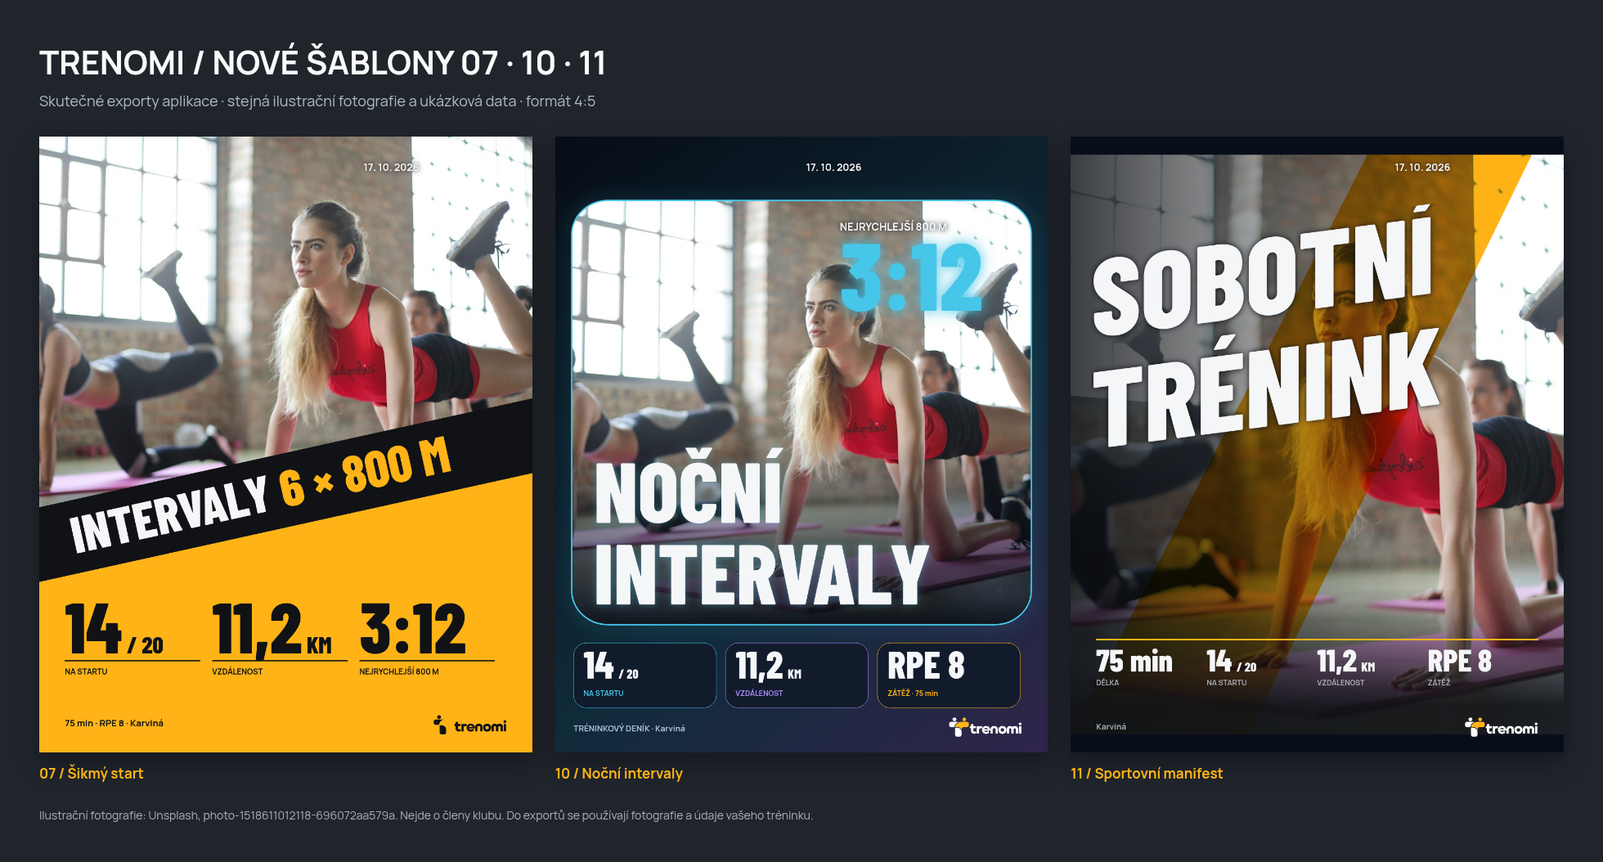
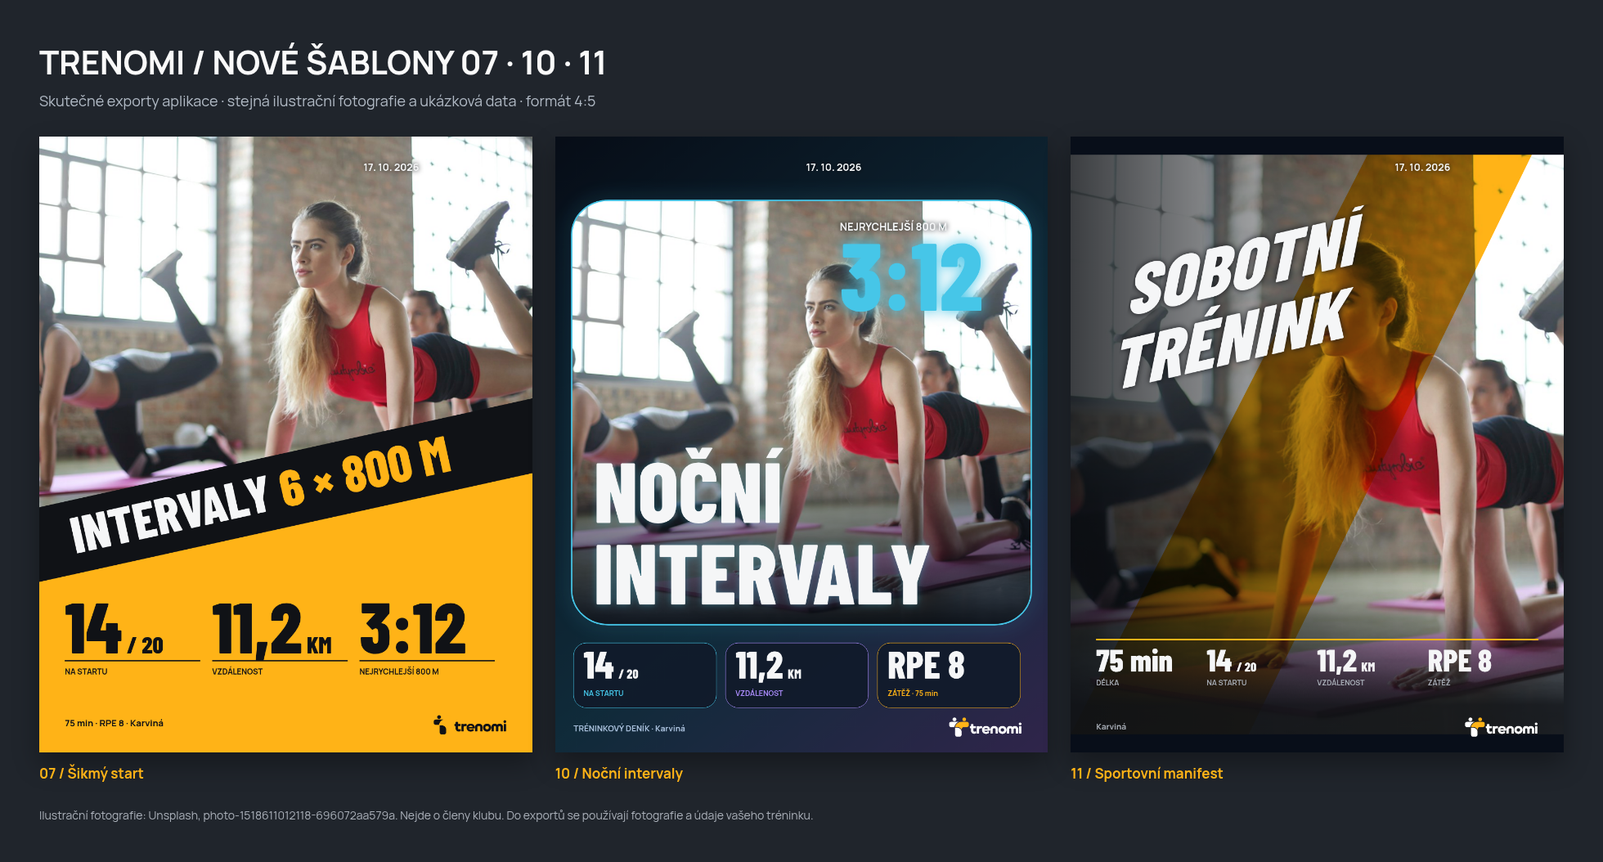
Reduce and skew template 11 typography, number all templates and add club mark styling

Changed region(s): [[0.6847, 0.2429, 0.9026, 0.5161]]

diff --git a/src/JournalSharePanel.tsx b/src/JournalSharePanel.tsx
@@ -28,7 +28,7 @@ export function JournalSharePanel({team,eventName,photo,clubLogo,date,place,metr
  useEffect(()=>{setCaption(value=>value===previousCaption.current?defaultCaption:value);previousCaption.current=defaultCaption},[defaultCaption]);
  useEffect(()=>{setCrop({x:.5,y:.5,zoom:1})},[photo]);
  const graphic:ShareGraphic={showClubIdentity:false,team,title:showTitle?title:'',photo,photoFit,clubLogo,date:showDate?date:undefined,place:showPlace?place:undefined,crop,format,template,accent,stickers,metrics:metrics.filter(m=>!hiddenMetrics.includes(m.label)).map(m=>m.label==='přítomných'&&attendance?{...m,value:`${attendance.present} / ${attendance.total}`}:m),best:best.map((b,i)=>({...b,name:names?b.name:`Výkon ${i+1}`}))};
- const allTemplates=[...editorTemplates,...shareTemplates],selectedTemplateIndex=shareTemplates.findIndex(t=>t.id===template),key=JSON.stringify(graphic);
+ const allTemplates=[...shareTemplates,...editorTemplates],selectedTemplateIndex=[...shareTemplates,...editorTemplates].findIndex(t=>t.id===template),key=JSON.stringify(graphic);
  const stickerData={title,date,metrics,attendance},activeSticker=stickers.find(s=>s.id===selected);
  const [readyKey,setReadyKey]=useState('');const incompleteSticker=stickers.some(s=>s.value==='DOPLŇTE'||!s.value.trim());const canExport=ready&&readyKey===key&&!incompleteSticker;
  useEffect(()=>{let alive=true;setReady(false);setError('');rendered.current=null;void renderShareGraphic(graphic).then(canvas=>{if(!alive||!preview.current)return;preview.current.width=canvas.width;preview.current.height=canvas.height;preview.current.getContext('2d')?.drawImage(canvas,0,0);rendered.current=canvas;setReadyKey(key);setReady(true)}).catch(()=>{if(alive)setError('Náhled grafiky nelze připravit. Ověřte připojení nebo zvolte jinou fotografii.')});return()=>{alive=false}},[key]);
@@ -67,7 +67,7 @@ export function JournalSharePanel({team,eventName,photo,clubLogo,date,place,metr
  </section><section className="share-editor-tools" aria-label="Nástroje editoru"><div className="share-editor-tabs" role="tablist" aria-label="Editor obrázku">{([['templates','Šablony'],['data','Data'],['stickers','Samolepky']] as const).map(([id,label])=><button key={id} role="tab" id={'share-tab-'+id} aria-selected={tab===id} aria-controls={'share-panel-'+id} onClick={()=>setTab(id)} onKeyDown={e=>{const ids=['templates','data','stickers'] as const,index=ids.indexOf(id);const next=e.key==='ArrowRight'?(index+1)%3:e.key==='ArrowLeft'?(index+2)%3:e.key==='Home'?0:e.key==='End'?2:-1;if(next>=0){e.preventDefault();setTab(ids[next]);e.currentTarget.parentElement?.querySelectorAll('button')[next]?.focus()}}}>{label}</button>)}</div>
  <div role="tabpanel" id="share-panel-templates" aria-labelledby="share-tab-templates" hidden={tab!=='templates'}>
 
- <details className="share-template-picker" open={pickerOpen} onToggle={e=>setPickerOpen(e.currentTarget.open)}><summary aria-label="Vybrat šablonu grafiky">{selectedTemplateIndex>=0&&<b className="share-template-number">{String(selectedTemplateIndex+1).padStart(2,'0')}</b>} <span>{allTemplates.find(t=>t.id===template)?.name}</span><small>Vybrat vzhled · {allTemplates.length}</small></summary>{pickerOpen&&<div className="share-template-cards" role="group" aria-label="Šablona grafiky">{allTemplates.map(t=><button key={t.id} aria-label={t.name} aria-pressed={template===t.id} onClick={()=>{chooseTemplate(t.id);setPickerOpen(false)}}><TemplatePreview graphic={{...graphic,format:'4:5',crop:{x:.5,y:.5,zoom:1},template:t.id}}/>{shareTemplates.some(v=>v.id===t.id)&&<b className="share-template-number">{String(shareTemplates.findIndex(v=>v.id===t.id)+1).padStart(2,'0')}</b>}<span>{t.name}</span></button>)}</div>}</details>
+ <details className="share-template-picker" open={pickerOpen} onToggle={e=>setPickerOpen(e.currentTarget.open)}><summary aria-label="Vybrat šablonu grafiky">{selectedTemplateIndex>=0&&<b className="share-template-number">{String(selectedTemplateIndex+1).padStart(2,'0')}</b>} <span>{allTemplates.find(t=>t.id===template)?.name}</span><small>Vybrat vzhled · {allTemplates.length}</small></summary>{pickerOpen&&<div className="share-template-cards" role="group" aria-label="Šablona grafiky">{allTemplates.map((t,i)=><button key={t.id} aria-label={t.name} aria-pressed={template===t.id} onClick={()=>{chooseTemplate(t.id);setPickerOpen(false)}}><TemplatePreview graphic={{...graphic,format:'4:5',crop:{x:.5,y:.5,zoom:1},template:t.id}}/><b className="share-template-number">{String(i+1).padStart(2,'0')}</b><span>{t.name}</span></button>)}</div>}</details>
  <fieldset className="share-accent-picker"><legend>Barva grafiky</legend>{shareAccents.map(a=><button key={a.value} aria-label={a.name} aria-pressed={accent===a.value} style={{background:a.value}} onClick={()=>{accentChosen.current=true;setAccent(a.value)}}/>)}</fieldset><p className="muted">Barva platí pro tento obrázek. Klubové nastavení se nemění.</p>
  </div><div role="tabpanel" id="share-panel-data" aria-labelledby="share-tab-data" hidden={tab!=='data'}>
  {usesSharePhoto(template)&&(photo?<fieldset className="share-crop"><legend>Výřez fotografie</legend><label>Zobrazení<select aria-label="Zobrazení fotografie" value={photoFit} onChange={e=>setPhotoFit(e.target.value as 'contain'|'cover')}><option value="contain">Celá fotografie</option><option value="cover">Vyplnit rámeček</option></select></label><p className="share-touch-help" id="share-touch-help">Fotografii posuňte prstem, dvěma prsty ji přibližte nebo oddalte.</p><details className="share-precise-controls" open={preciseOpen} onToggle={e=>setPreciseOpen(e.currentTarget.open)}><summary>Přesné nastavení výřezu</summary>{([['Přiblížení fotografie','zoom',1,3,.05],['Vodorovný posun fotografie','x',0,1,.01],['Svislý posun fotografie','y',0,1,.01]] as const).map(([label,field,min,max,step])=><label key={field}>{label}<input aria-label={label} type="range" min={min} max={max} step={step} value={crop[field]} onChange={e=>setCrop(c=>({...c,[field]:Number(e.target.value)}))}/></label>)}</details><button className="text-button" onClick={()=>setCrop({x:.5,y:.5,zoom:1})}>Obnovit výřez</button><small>Původní fotka se nemění. Další vyberete v galerii tréninku.</small></fieldset>:<p className="muted">Přidejte nebo vyberte fotografii v galerii tréninku. Zatím se použije grafické pozadí.</p>)}
@@ -75,7 +75,7 @@ export function JournalSharePanel({team,eventName,photo,clubLogo,date,place,metr
  </div><div role="tabpanel" id="share-panel-stickers" aria-labelledby="share-tab-stickers" hidden={tab!=='stickers'}>
  <button className="share-add-club" disabled={stickers.length>=16||stickers.some(s=>s.kind==='club')} onClick={()=>addSticker({...newShareSticker('ticket',stickerData),kind:'club',text:'',value:team})}>Vložit logo a název klubu</button><p className="muted">{clubLogo?'Logo se použije v původních proporcích a název v původním znění.':'Klub nemá nastavené logo; vloží se jeho název.'}</p>
  <p className="muted">Klepnutím přidejte samolepku. Na náhledu ji posuňte, za roh zvětšete a otočte, nebo použijte dva prsty.</p>
- {activeSticker&&<fieldset className="share-sticker-properties"><legend>{stickerName(activeSticker.kind)}</legend>{activeSticker.kind!=='club'&&<><label>Hlavní text<input aria-label="Text samolepky" maxLength={80} value={activeSticker.value} onChange={e=>changeSticker({...activeSticker,value:e.target.value})}/></label><label>Doplňující text<input aria-label="Popisek samolepky" maxLength={60} value={activeSticker.text} onChange={e=>changeSticker({...activeSticker,text:e.target.value})}/></label></>}<label>Velikost<input aria-label="Velikost samolepky" type="range" min=".35" max="2.4" step=".01" value={activeSticker.scale} onChange={e=>changeSticker({...activeSticker,scale:Number(e.target.value)})}/></label><label>Otočení · {Math.round(activeSticker.rotation)}°<input aria-label="Otočení samolepky" type="range" min="-180" max="180" step="1" value={activeSticker.rotation} onChange={e=>changeSticker({...activeSticker,rotation:Number(e.target.value)})}/></label><div><button onClick={()=>setStickers(items=>[...items.filter(s=>s.id!==selected),activeSticker])}>Do popředí</button><button onClick={()=>setStickers(items=>[activeSticker,...items.filter(s=>s.id!==selected)])}>Do pozadí</button><button disabled={stickers.length>=16} onClick={()=>addSticker({...activeSticker,id:crypto.randomUUID(),x:.5,y:.5})}><Copy size={14}/> Duplikovat</button><button className="danger-text" onClick={()=>removeSticker(selected)}><Trash2 size={14}/> Odstranit samolepku</button></div></fieldset>}
+ {activeSticker&&<fieldset className="share-sticker-properties"><legend>{stickerName(activeSticker.kind)}</legend>{activeSticker.kind==='club'&&<div className="share-club-appearance"><label className="share-names"><input type="checkbox" checked={!!activeSticker.clubBorder} onChange={e=>changeSticker({...activeSticker,clubBorder:e.target.checked})}/> Ohraničení loga</label>{activeSticker.clubBorder&&<label>Barva ohraničení<input type="color" aria-label="Barva ohraničení loga" value={activeSticker.clubBorderColor||'#FFFFFF'} onChange={e=>changeSticker({...activeSticker,clubBorderColor:e.target.value})}/></label>}<label className="share-names"><input type="checkbox" checked={!!activeSticker.clubBackground} onChange={e=>changeSticker({...activeSticker,clubBackground:e.target.checked})}/> Pozadí loga</label>{activeSticker.clubBackground&&<><label>Barva pozadí<input type="color" aria-label="Barva pozadí loga" value={activeSticker.clubBackgroundColor||'#101216'} onChange={e=>changeSticker({...activeSticker,clubBackgroundColor:e.target.value})}/></label><label>Průhlednost pozadí · {Math.round((1-(activeSticker.clubBackgroundOpacity??.85))*100)} %<input type="range" aria-label="Průhlednost pozadí loga" min="0" max="1" step=".01" value={1-(activeSticker.clubBackgroundOpacity??.85)} onChange={e=>changeSticker({...activeSticker,clubBackgroundOpacity:1-Number(e.target.value)})}/></label></> }</div>}{activeSticker.kind!=='club'&&<><label>Hlavní text<input aria-label="Text samolepky" maxLength={80} value={activeSticker.value} onChange={e=>changeSticker({...activeSticker,value:e.target.value})}/></label><label>Doplňující text<input aria-label="Popisek samolepky" maxLength={60} value={activeSticker.text} onChange={e=>changeSticker({...activeSticker,text:e.target.value})}/></label></>}<label>Velikost<input aria-label="Velikost samolepky" type="range" min=".35" max="2.4" step=".01" value={activeSticker.scale} onChange={e=>changeSticker({...activeSticker,scale:Number(e.target.value)})}/></label><label>Otočení · {Math.round(activeSticker.rotation)}°<input aria-label="Otočení samolepky" type="range" min="-180" max="180" step="1" value={activeSticker.rotation} onChange={e=>changeSticker({...activeSticker,rotation:Number(e.target.value)})}/></label><div><button onClick={()=>setStickers(items=>[...items.filter(s=>s.id!==selected),activeSticker])}>Do popředí</button><button onClick={()=>setStickers(items=>[activeSticker,...items.filter(s=>s.id!==selected)])}>Do pozadí</button><button disabled={stickers.length>=16} onClick={()=>addSticker({...activeSticker,id:crypto.randomUUID(),x:.5,y:.5})}><Copy size={14}/> Duplikovat</button><button className="danger-text" onClick={()=>removeSticker(selected)}><Trash2 size={14}/> Odstranit samolepku</button></div></fieldset>}
  {stickers.length>0&&<div className="share-sticker-layers" role="group" aria-label="Vložené samolepky">{stickers.map((s,i)=><button key={s.id} aria-pressed={selected===s.id} onClick={()=>setSelected(s.id)}>{stickerName(s.kind)} {i+1}</button>)}</div>}
  <div className="share-sticker-library" role="group" aria-label="Samolepky pro fotky">{stickerKinds.map(kind=>{const sample=newShareSticker(kind.id,stickerData,'preview-'+kind.id);return <button key={kind.id} disabled={stickers.length>=16} aria-label={'Přidat samolepku: '+kind.name} onClick={()=>addSticker(newShareSticker(kind.id,stickerData))}><StickerPreview sticker={sample} accent={accent}/><strong>{kind.name}</strong><small>{kind.hint}</small></button>})}</div><small>{stickers.length} / 16 samolepek · Rekord a sérii doplňte ručně.</small>
  </div></section></div>

diff --git a/src/shareStickers.ts b/src/shareStickers.ts
@@ -10,7 +10,7 @@ export const stickerKinds:{id:StickerKind;name:string;hint:string}[]=[
  {id:'stamp',name:'Razítko',hint:'Odmakáno'},{id:'bolt',name:'Blesk',hint:'Tempo týmu'},{id:'streak',name:'Série',hint:'Vlastní text'},{id:'effort',name:'Ukazatel zátěže',hint:'RPE z deníku'},
  {id:'ticket',name:'Lístek',hint:'Název tréninku'},{id:'outline',name:'Obrysový nápis',hint:'Dnes jsme to dali'},{id:'team',name:'Tým na startu',hint:'Počet přítomných'},{id:'record',name:'Rekord',hint:'Doplňte vlastní výkon'}
 ];
-export type ShareSticker={id:string;kind:StickerKind|'club';x:number;y:number;scale:number;rotation:number;text:string;value:string};
+export type ShareSticker={id:string;kind:StickerKind|'club';x:number;y:number;scale:number;rotation:number;text:string;value:string;clubBorder?:boolean;clubBorderColor?:string;clubBackground?:boolean;clubBackgroundColor?:string;clubBackgroundOpacity?:number};
 export type StickerData={title:string;date?:string;metrics:{label:string;value:string}[];attendance?:{present:number;total:number}};
 export function newShareSticker(kind:StickerKind,data:StickerData,id?:string):ShareSticker{
  const metric=(label:string)=>data.metrics.find(m=>m.label===label)?.value||'—';
@@ -19,7 +19,7 @@ export function newShareSticker(kind:StickerKind,data:StickerData,id?:string):Sh
 }
 export const stickerName=(kind:ShareSticker['kind'])=>kind==='club'?'Logo a název klubu':stickerKinds.find(k=>k.id===kind)!.name;
 export function stickerSize(kind:ShareSticker['kind']){return ['tape','distance','bolt','stamp','ticket','team','outline','club'].includes(kind)?{width:440,height:160}:{width:290,height:260}}
-export function safeSticker(s:ShareSticker):ShareSticker{const finite=(n:number,fallback:number)=>Number.isFinite(n)?n:fallback;return {...s,x:Math.max(0,Math.min(1,finite(s.x,.5))),y:Math.max(0,Math.min(1,finite(s.y,.5))),scale:Math.max(.35,Math.min(2.4,finite(s.scale,1))),rotation:((finite(s.rotation,0)+180)%360+360)%360-180,text:s.text.slice(0,60),value:s.value.slice(0,80)}}
+export function safeSticker(s:ShareSticker):ShareSticker{const finite=(n:number,fallback:number)=>Number.isFinite(n)?n:fallback;return {...s,x:Math.max(0,Math.min(1,finite(s.x,.5))),y:Math.max(0,Math.min(1,finite(s.y,.5))),scale:Math.max(.35,Math.min(2.4,finite(s.scale,1))),rotation:((finite(s.rotation,0)+180)%360+360)%360-180,text:s.text.slice(0,60),value:s.value.slice(0,80),clubBackgroundOpacity:Math.max(0,Math.min(1,finite(s.clubBackgroundOpacity??.85,.85))),clubBackgroundColor:/^#[0-9a-f]{6}$/i.test(s.clubBackgroundColor||'')?s.clubBackgroundColor:'#101216',clubBorderColor:/^#[0-9a-f]{6}$/i.test(s.clubBorderColor||'')?s.clubBorderColor:'#FFFFFF'}}
 function label(ctx:CanvasRenderingContext2D,value:string,y:number,size:number,color:string,max:number,outline=false){ctx.font=`800 ${size}px "Trenomi Display", sans-serif`;while(ctx.measureText(value).width>max&&size>12){ctx.font=`800 ${--size}px "Trenomi Display", sans-serif`}ctx.textAlign='center';ctx.textBaseline='middle';if(outline){ctx.strokeStyle=color;ctx.lineWidth=2;ctx.strokeText(value,0,y,max)}else{ctx.fillStyle=color;ctx.fillText(value,0,y,max)}}
 export function drawShareSticker(ctx:CanvasRenderingContext2D,raw:ShareSticker,width:number,height:number,accent:string,clubLogo?:HTMLImageElement|null){
  const s=safeSticker(raw),b=stickerSize(s.kind),w=b.width,h=b.height,white='#F5F6F7',dark='#101216';ctx.save();ctx.translate(s.x*width,s.y*height);ctx.rotate(s.rotation*Math.PI/180);ctx.scale(s.scale,s.scale);
@@ -27,7 +27,9 @@ export function drawShareSticker(ctx:CanvasRenderingContext2D,raw:ShareSticker,w
  const ring=(radius:number)=>{ctx.beginPath();ctx.arc(0,0,radius,0,Math.PI*2);ctx.fillStyle=dark;ctx.fill();ctx.lineWidth=12;ctx.strokeStyle=accent;ctx.stroke()};
  switch(s.kind){
  case 'club':{
-  rect('#101216DD',14);const logoWidth=clubLogo?105:0;
+  if(s.clubBackground){ctx.save();ctx.globalAlpha*=s.clubBackgroundOpacity!;rect(s.clubBackgroundColor!,14);ctx.restore()}
+  if(s.clubBorder){ctx.strokeStyle=s.clubBorderColor!;ctx.lineWidth=3;ctx.beginPath();ctx.roundRect(-w/2,-h/2,w,h,14);ctx.stroke()}
+  const logoWidth=clubLogo?105:0;
   if(clubLogo){const factor=Math.min(90/clubLogo.naturalWidth,110/clubLogo.naturalHeight);ctx.drawImage(clubLogo,-w/2+18,-clubLogo.naturalHeight*factor/2,clubLogo.naturalWidth*factor,clubLogo.naturalHeight*factor)}
   ctx.fillStyle=white;ctx.textAlign='left';ctx.textBaseline='middle';let size=34;ctx.font=`700 ${size}px "Trenomi Text",sans-serif`;while(ctx.measureText(s.value).width>w-logoWidth-42&&size>12)ctx.font=`700 ${--size}px "Trenomi Text",sans-serif`;ctx.fillText(s.value,-w/2+20+logoWidth,0,w-logoWidth-40);break;}
 

diff --git a/src/journalShareLayouts.ts b/src/journalShareLayouts.ts
@@ -18,7 +18,7 @@ export function photoShareLayout(template:PhotoShareTemplate,format:ShareFormat)
   case 'split':return {...layout,background:'#FFB317',ink:'#101216',light:true,photo:box(0,story?top:0,1080,h*.72+(story?0:top)),title:box(40,top+h*.5,1000,h*.2),metrics:box(56,top+h*.76,968,h*.14),footer:box(56,bottom-55,968,50)};
   case 'clean':return {...layout,background:'#F4F4EF',ink:'#101216',muted:'#62666C',light:true,photo:box(0,top+76,1080,h-256),header:box(44,top,992,66),title:box(44,bottom-164,992,62),metrics:box(44,bottom-94,992,46),footer:box(44,bottom-44,992,44),titleSize:48,titleFace:'text'};
   case 'neon':return {...layout,background:'#080E19',photo:box(36,top+100,1008,h-340),title:box(82,bottom-490,900,230),metrics:box(40,bottom-200,1000,142),footer:box(40,bottom-42,1000,42),titleSize:140};
-  case 'track':return {...layout,background:'#101216',photo:box(0,top,1080,h),title:box(45,top+130,850,h-340),metrics:box(56,bottom-195,968,110),footer:box(56,bottom-48,968,48),titleSize:220};
+  case 'track':return {...layout,background:'#101216',photo:box(0,top,1080,h),title:box(70,top+120,740,Math.min(510,h*.42)),metrics:box(56,bottom-195,968,110),footer:box(56,bottom-48,968,48),titleSize:160};
   case 'ticket':return {...layout,background:'#202631',ink:'#191B1E',muted:'#65615C',light:true,header:box(56,top+8,968,70),photo:box(56,top+118,968,h-408),title:box(56,bottom-264,636,188),metrics:box(756,bottom-250,260,160),metricColumns:2,footer:box(56,bottom-44,968,44),titleSize:118};
   default:return layout;
  }

diff --git a/src/journalShare.ts b/src/journalShare.ts
@@ -150,7 +150,7 @@ function signaturePhotoGraphic(ctx:CanvasRenderingContext2D,input:ShareGraphic,b
   const shade=ctx.createLinearGradient(0,0,1080,0);shade.addColorStop(0,'#070A0EC9');shade.addColorStop(.75,'#070A0E00');ctx.fillStyle=shade;ctx.fillRect(0,p.y,1080,p.height);
   ctx.save();ctx.globalCompositeOperation='multiply';polygon(ctx,[[650,p.y],[1010,p.y],[390,p.y+p.height],[0,p.y+p.height]],accent);ctx.restore();
   const low=ctx.createLinearGradient(0,bottom-320,0,bottom);low.addColorStop(0,'#10121600');low.addColorStop(.8,'#101216ED');ctx.fillStyle=low;ctx.fillRect(0,bottom-320,1080,320);
-  const box={...l,ink:white,titleSize:240,titleLines:3};ctx.save();ctx.transform(1,-.13,0,1,0,80);ctx.shadowColor='#101216';ctx.shadowBlur=14;regionTitle(ctx,input,box);ctx.restore();
+  const box={...l,ink:white,titleSize:160,titleLines:3};ctx.save();ctx.transform(1,-.23,-.2,1,110,120);ctx.shadowColor='#101216';ctx.shadowBlur=14;regionTitle(ctx,input,box);ctx.restore();
   const values=metrics.filter(v=>v!==fast).slice(0,4),cw=m.width/Math.max(1,values.length);rule(ctx,m.x,m.y-14,m.width,accent);
   values.forEach((v,i)=>{const x=m.x+i*cw;number(v.value,x,m.y+58,cw-20,69,white);text(ctx,caption(v),x,m.y+88,cw-20,16,muted)});
   text(ctx,input.place||'TRÉNINKOVÝ DENÍK',56,bottom-10,750,18,muted);

diff --git a/src/style.css b/src/style.css
@@ -485,3 +485,7 @@ html[data-theme="light"] .chat-mention,html[data-theme="light"] .conversation-ar
 .share-removed-fields{margin:8px 0;font-size:11px}
 .share-removed-fields summary{cursor:pointer;color:var(--muted);padding:5px 0}
 .share-removed-fields button{padding:6px 8px;font-size:10px;margin:4px 5px 4px 0}
+.share-sticker-properties .share-club-appearance{display:grid;gap:6px;border-bottom:1px solid var(--border);padding-bottom:12px;margin-bottom:12px}
+.share-club-appearance label.share-names{display:flex;align-items:center;gap:9px}
+.share-club-appearance input[type=checkbox]{width:18px;height:18px;accent-color:var(--orange)}
+.share-club-appearance input[type=color]{max-width:90px;height:36px;padding:3px;cursor:pointer}

diff --git a/docs/SHARE_GRAPHICS.md b/docs/SHARE_GRAPHICS.md
@@ -2,7 +2,7 @@
 
 V trenérském Deníku otevřete záznam tréninku a panel **Sdílet trénink**.
 
-![Skutečné exporty všech 12 kompozic](designs/trenomi-share-12-implemented.png)
+![Skutečné exporty původních 12 očíslovaných šablon](designs/trenomi-share-12-implemented.png)
 
 Přehled výše vzniká přímo stejným Canvas rendererem jako stažené PNG. Používá ilustrační fotografii z Unsplash (photo-1518611012118-696072aa579a) a smyšlené údaje, nikoli data členů. Fotografie se do aplikace nepřidává; každý klub používá vlastní galerii.
 
@@ -18,8 +18,11 @@ Přehled výše vzniká přímo stejným Canvas rendererem jako stažené PNG. P
 | 08 Černobílý dokument | Velká monochromatická fotografie a drobná čistá sazba. Černobílá úprava platí jen pro export, ne pro originál. |
 | 09 Nejlepší výkony | Tři výsledkové karty s velkým pořadím, skutečnými hodnotami a jmény standardně skrytými. Bez fotografie. |
 | 10 Noční intervaly | Modrý světelný rám, velký dvouřádkový bílý nadpis uvnitř fotografie, skutečný nejrychlejší úsek a tři samostatné datové karty. |
-| 11 Sportovní manifest | Celoplošná fotografie, obří bílá sportovní typografie ve sklonu, diagonální akcentový pás a kompaktní údaje u spodního okraje. |
+| 11 Sportovní manifest | Celoplošná fotografie, menší bílá sportovní typografie s výraznějším sklonem i zešikmením, diagonální akcentový pás a kompaktní údaje u spodního okraje. |
 | 12 Klubová vstupenka | Krémová perforovaná vstupenka, fotografie a samostatný žlutý datový útržek. Nejde o vstupní oprávnění ani QR kód. |
+| 13 Kilometry | Velká hodnota vzdálenosti a název nad fotografií. |
+| 14 Sloupec dat | Svisle uspořádané skutečné metriky vedle dominantní fotografie. |
+| 15 Jen titulek | Fotografie s výrazným názvem a kompaktním souhrnem. |
 
 Volbu otevřete kliknutím na aktuální šablonu (**Vybrat vzhled · 15**). Nabídka obsahuje číslované miniatury a po volbě se zavře. Náhledy nabídky se vykreslují jen při jejím otevření.
 
@@ -101,3 +104,8 @@ Logo a název klubu se do grafiky nevkládají automaticky. V záložce **Samole
 Vybraný prvek má na náhledu malé **×** pro okamžité odstranění. Pod náhledem jsou obdobné křížky pro jednotlivé metriky, datum, místo a titulek. Skrytá data lze znovu zapnout v záložce **Data**. Ovládací křížky se neexportují. Regrese editoru navíc ověřuje 16 odlišných exportovaných barev, přepínání a editaci starší šablony, volitelné vložení identity s původním zněním a poměrem stran loga a odstranění křížky.
 
 Pod náhledem je **Vrátit odstranění**. Vrací poslední odstraněný údaj, datum, místo, titulek, samolepku nebo logo klubu; opakovaným použitím vrací další odstranění. V **Odstraněné prvky** lze obnovit i konkrétní starší položku. Samolepka si zachová text, polohu, velikost, otočení a uloženou pozici vrstvy, ostatní mezitím provedené úpravy zůstanou. Ruční obnovení údaje v záložce Data odstraní jeho starý záznam z historie. Historie uchovává nejvýše 50 odstranění v otevřeném editoru; po jeho zavření se návrh i historie zahodí. Limit 16 vložených samolepek platí také při obnově.
+
+
+Všech 15 šablon má číslo na miniatuře i u vybraného názvu; původní čísla 01–12 zůstávají, nové fotografické kompozice jsou **13 Kilometry, 14 Sloupec dat, 15 Jen titulek**. Čísla jsou pouze v ovládání editoru, ne v exportu.
+
+Po vložení loga a názvu klubu lze v záložce **Samolepky** zapnout **Ohraničení loga** a vybrat jeho barvu. Nezávisle lze zapnout **Pozadí loga**, zvolit barvu a posuvníkem nastavit **Průhlednost pozadí** (0 % plné, 100 % průhledné). Ve výchozím stavu jsou pozadí i rámeček vypnuté. Průhlednost platí jen pro pozadí; původní logo a název zůstávají plně viditelné a samotný soubor se nemění. Odstranění a následné vrácení prvku obnovuje také tyto volby.
